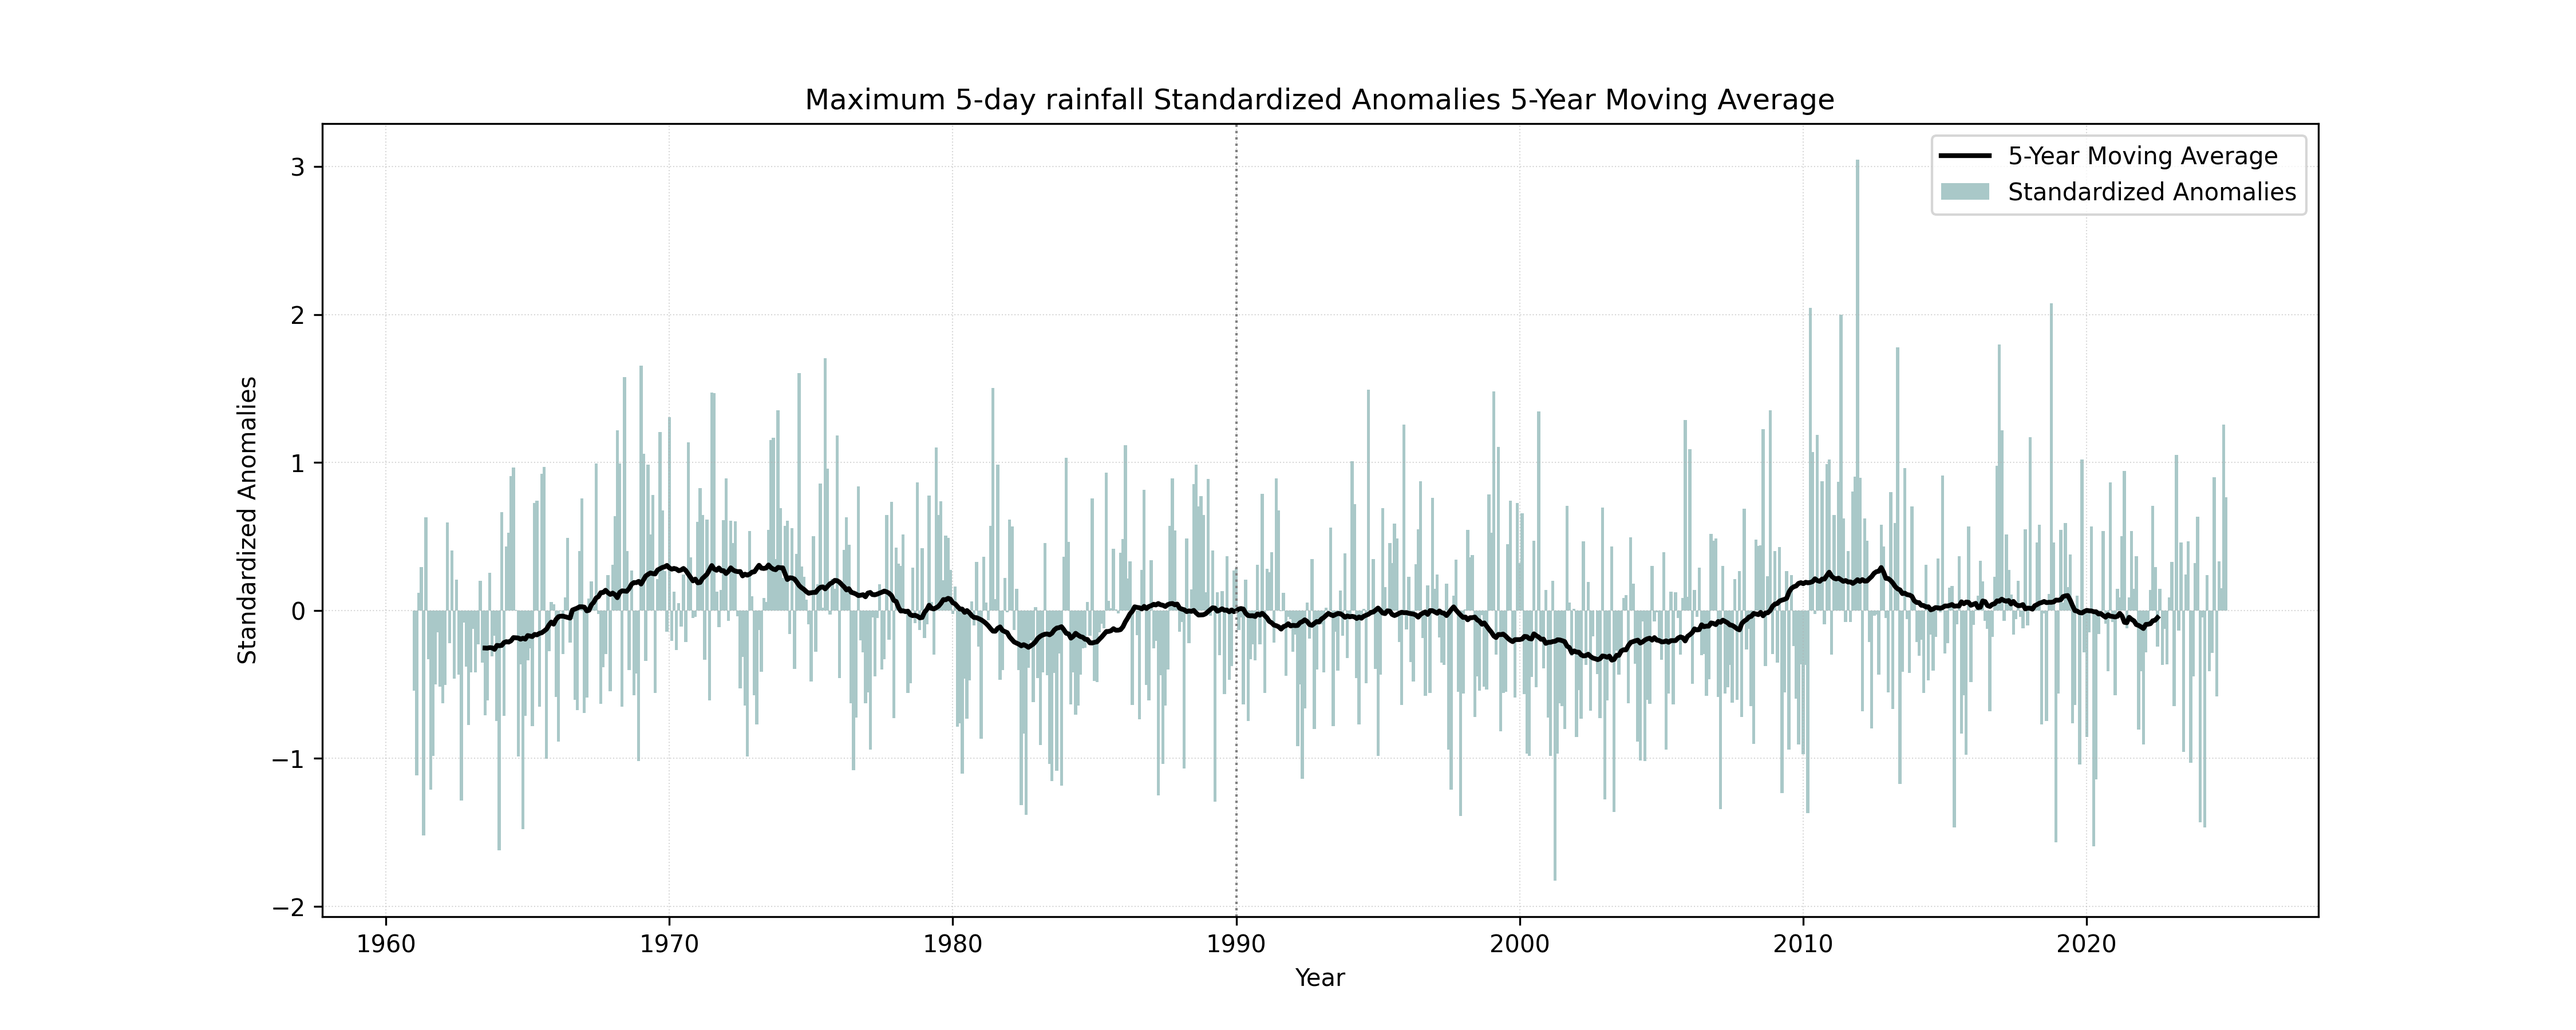
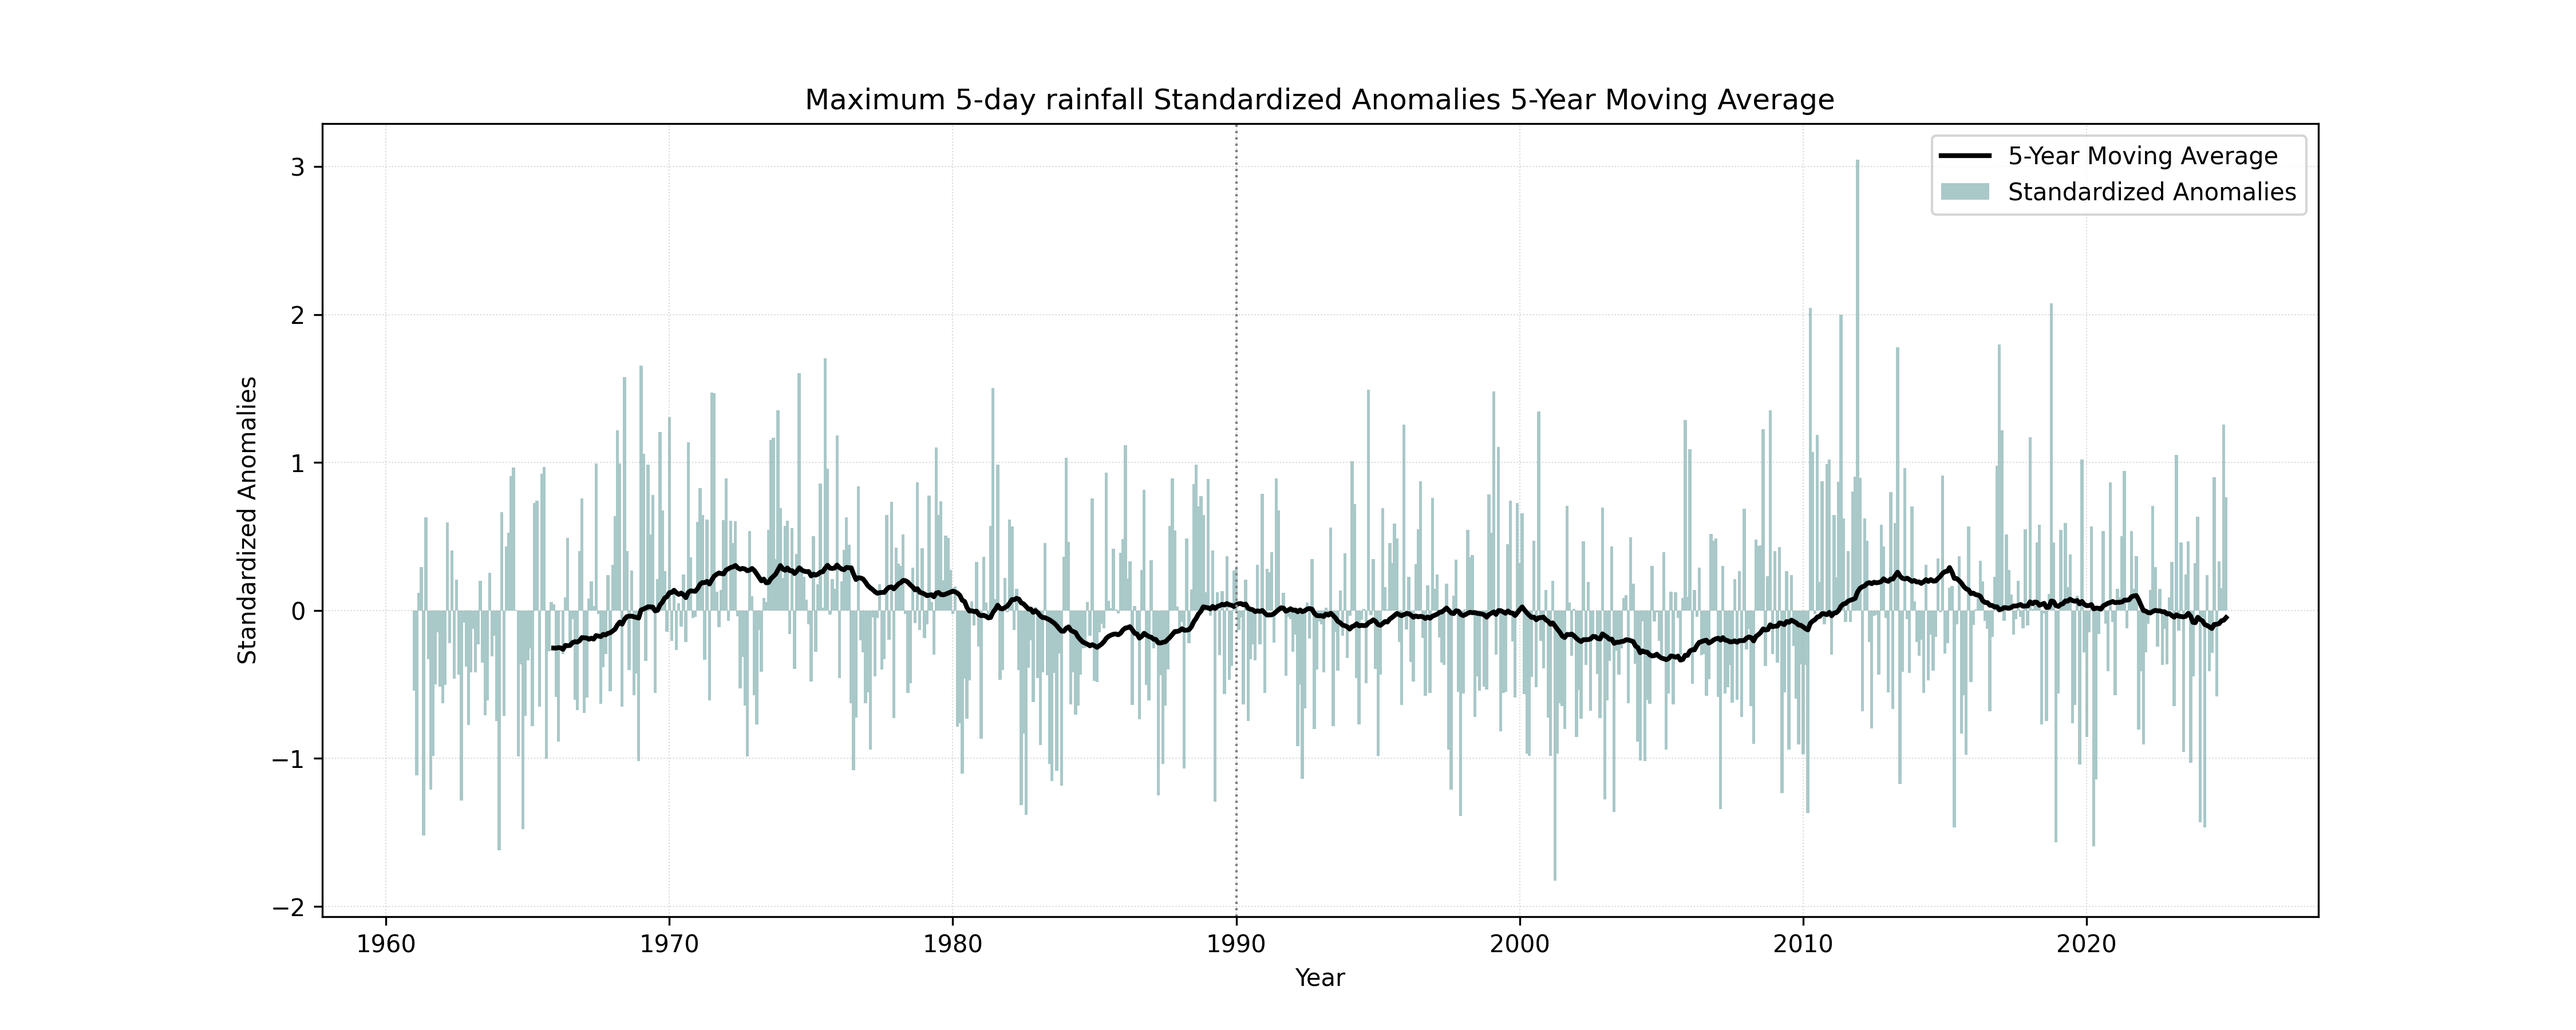
changes in the graphs

Changed region(s): [[0.1867, 0.5289, 0.8711, 0.6533]]

diff --git a/src/scripts/graficas.py b/src/scripts/graficas.py
@@ -15,12 +15,12 @@ def plot_temp_anomalies(anomalies_combined,output_dir):
 
     df = df.sort_values(by='date')
 
-    df['T90_5yr_moving_avg'] = df['t_90'].rolling(window=60, center=True).mean()
-    df['T10_5yr_moving_avg'] = df['t_10'].rolling(window=60, center=True).mean()
+    df['T90_5yr_moving_avg'] = df['t_90'].rolling(window=60, center=False).mean()
+    df['T10_5yr_moving_avg'] = df['t_10'].rolling(window=60, center=False).mean()
 
     #Compound component of temperature
     df['composite'] = df['t_90'] - df['t_10']
-    df['composite_5yr_moving_avg'] = df['composite'].rolling(window=60, center=True).mean()
+    df['composite_5yr_moving_avg'] = df['composite'].rolling(window=60, center=False).mean()
 
     plt.figure(figsize=(15, 6)) #tamaño de la grafica
 
@@ -57,7 +57,7 @@ def plot_rainfall_anomalies(anomalies_combined,output_dir):
 
     df = df.sort_values(by='date')
 
-    df['rainfall_5yr_moving_avg'] = df['Anomalia_Lluvia'].rolling(window=60, center=True).mean()
+    df['rainfall_5yr_moving_avg'] = df['Anomalia_Lluvia'].rolling(window=60, center=False).mean()
 
     plt.figure(figsize=(15, 6)) #tamaño de la grafica
 
@@ -93,7 +93,7 @@ def plot_drought_anomalies(anomalies_combined,output_dir):
 
     df = df.sort_values(by='date')
 
-    df['rainfall_5yr_moving_avg'] = df['Anomalia_Sequia'].rolling(window=60, center=True).mean()
+    df['rainfall_5yr_moving_avg'] = df['Anomalia_Sequia'].rolling(window=60, center=False).mean()
 
     plt.figure(figsize=(15, 6)) #tamaño de la grafica
 
@@ -127,7 +127,7 @@ def plot_wind_anomalies(anomalies_combined,output_dir):
 
     df = df.sort_values(by='date')
 
-    df['5yr_moving_avg'] = df['anomalies_above'].rolling(window=60, center=True).mean()
+    df['5yr_moving_avg'] = df['anomalies_above'].rolling(window=60, center=False).mean()
 
     plt.figure(figsize=(15, 6)) #tamaño de la grafica
 
@@ -187,12 +187,12 @@ def plot_ICA(anomalies_combined_temp, anomalies_combined_rainfall, anomalies_com
     ICA['ICA'] = (ICA['t_90'] - ICA['t_10'] + ICA['W_std'] + ICA['P_std'] + ICA['D_std']) / 5
 
     # Calcular la media móvil de 5 años
-    ICA['ICA_5yr_avg'] = ICA['ICA'].rolling(window=60, center=True).mean()
-    ICA['t90_5yr_avg'] = ICA['t_90'].rolling(window=60, center=True).mean()
-    ICA['t10_5yr_avg'] = ICA['t_10'].rolling(window=60, center=True).mean()
-    ICA['W_std_5yr_avg'] = ICA['W_std'].rolling(window=60, center=True).mean()
-    ICA['P_std_5yr_avg'] = ICA['P_std'].rolling(window=60, center=True).mean()
-    ICA['D_std_5yr_avg'] = ICA['D_std'].rolling(window=60, center=True).mean()
+    ICA['ICA_5yr_avg'] = ICA['ICA'].rolling(window=60, center=False).mean()
+    ICA['t90_5yr_avg'] = ICA['t_90'].rolling(window=60, center=False).mean()
+    ICA['t10_5yr_avg'] = ICA['t_10'].rolling(window=60, center=False).mean()
+    ICA['W_std_5yr_avg'] = ICA['W_std'].rolling(window=60, center=False).mean()
+    ICA['P_std_5yr_avg'] = ICA['P_std'].rolling(window=60, center=False).mean()
+    ICA['D_std_5yr_avg'] = ICA['D_std'].rolling(window=60, center=False).mean()
 
     # Gráfico
     plt.figure(figsize=(15, 6))

diff --git a/src/scripts/calcular_anomalias_regiones.py b/src/scripts/calcular_anomalias_regiones.py
@@ -35,22 +35,34 @@ if __name__ == "__main__":
     output_base_path = "../../data/processed"
 
     regiones = [
-        {"name": "cundinamarca", "shapefile": "../../data/shapefiles/Cundinamarca_Bogota_4326.shp"},
-        {"name": "antioquia", "shapefile": "../../data/shapefiles/antioquia_4326.shp"},
-        {"name": "valle_cauca", "shapefile": "../../data/shapefiles/valle_cauca_4326.shp"},
-        {"name": "san_andres_providencia", "shapefile": "../../data/shapefiles/san_andres_providencia.shp"},
-        {"name": "medellin", "shapefile": "../../data/shapefiles/medellin_4326.shp"},
-        {"name": "cali", "shapefile": "../../data/shapefiles/cali_4326.shp"},
-        {"name": "bogota", "shapefile": "../../data/shapefiles/bogota.shp"}
+        {"name": "anomalias_colombia", "shapefile": "../../data/shapefiles/colombia_4326.shp"},
+        {"name": "anomalias_cundinamarca_bogota", "shapefile": "../../data/shapefiles/Cundinamarca_Bogota_4326.shp"},
+        {"name": "anomalias_antioquia", "shapefile": "../../data/shapefiles/antioquia_4326.shp"},
+        {"name": "anomalias_valle_cauca", "shapefile": "../../data/shapefiles/valle_cauca_4326.shp"},
+        {"name": "anomalias_san_andres_providencia", "shapefile": "../../data/shapefiles/san_andres_providencia.shp"},
+        {"name": "anomalias_medellin", "shapefile": "../../data/shapefiles/medellin_4326.shp"},
+        {"name": "anomalias_cali", "shapefile": "../../data/shapefiles/cali_4326.shp"},
+        {"name": "anomalias_bogota", "shapefile": "../../data/shapefiles/bogota.shp"}
     ]
 
     for region in regiones:
-        procesar_anomalias_region(
-            region_name=region["name"],
-            shapefile_path=region["shapefile"],
-            archivo_comparar_location=archivo_comparar_location,
-            archivo_percentiles_temperatura=archivo_percentiles_temperatura,
-            archivo_percentiles_wind=archivo_percentiles_wind,
-            archivo_percentiles_lluvia=archivo_percentiles_lluvia,
-            output_base_path=output_base_path
-        )
+        try:
+            os.makedirs(os.path.join(output_base_path, region["name"]))
+        except FileExistsError:
+            pass
+
+        try:
+            procesar_anomalias_region(
+                region_name=region["name"],
+                shapefile_path=region["shapefile"],
+                archivo_comparar_location=archivo_comparar_location,
+                archivo_percentiles_temperatura=archivo_percentiles_temperatura,
+                archivo_percentiles_wind=archivo_percentiles_wind,
+                archivo_percentiles_lluvia=archivo_percentiles_lluvia,
+                output_base_path=output_base_path
+            )
+        except Exception as e:
+
+            print(f'Error en el proceso para {region["name"]}: {e}')
+            continue
+    print("Proceso finalizado")

diff --git a/src/scripts/calcular_anomalias_temperatura.py b/src/scripts/calcular_anomalias_temperatura.py
@@ -203,8 +203,8 @@ def procesar_anomalias_temperatura(archivo_percentiles, archivo_comparar_locatio
 if __name__ == "__main__":
     archivo_percentiles = "../../data/processed/era5_temperatura_percentil.nc"
     archivo_comparar_location = "../../data/raw/era5/"
-    output_csv_path = "../../data/processed/anomalies_temperature_combined.csv"
+    output_csv_path = "../../data/processed/anomalias_colombia/anomalies_temperature_combined.csv"
     shapefile_path = "../../data/shapefiles/colombia_4326.shp"
-    output_netcdf = "../../data/processed"
+    output_netcdf = "../../data/processed/anomalias_colombia"
 
     procesar_anomalias_temperatura(archivo_percentiles, archivo_comparar_location, output_csv_path, shapefile_path, output_netcdf)

diff --git a/src/scripts/calcular_anomalias_viento.py b/src/scripts/calcular_anomalias_viento.py
@@ -110,8 +110,8 @@ def procesar_anomalias_viento(archivo_percentiles, archivo_comparar_location, ou
 if __name__ == "__main__":
     archivo_percentiles = "../../data/processed/era5_wind_percentil.nc"
     archivo_comparar_location = "../../data/raw/era5/"
-    output_csv_path = "../../data/processed/anomalies_wind_combined.csv"
+    output_csv_path = "../../data/processed/anomalias_colombia/anomalies_wind_combined.csv"
     shapefile_path = "../../data/shapefiles/colombia_4326.shp"
-    output_netcdf = "../../data/processed"
+    output_netcdf = "../../data/processed/anomalias_colombia"
 
     procesar_anomalias_viento(archivo_percentiles, archivo_comparar_location, output_csv_path, shapefile_path, output_netcdf)

diff --git a/src/scripts/calcular_anomalias_lluvia.py b/src/scripts/calcular_anomalias_lluvia.py
@@ -323,7 +323,7 @@ if __name__ == "__main__":
     shapefile_path = "../../data/shapefiles/colombia_4326.shp"
     ruta = "../../data/processed"
     ruta_grib = "../../data/raw/era5"
-    ruta_salida = "../../data/processed"
+    ruta_salida = "../../data/processed/anomalias_colombia"
     salida_lluvia = "anomalies_precipitation_combined.csv"
     salida_sequia = "anomalies_drought_combined.csv"
 
